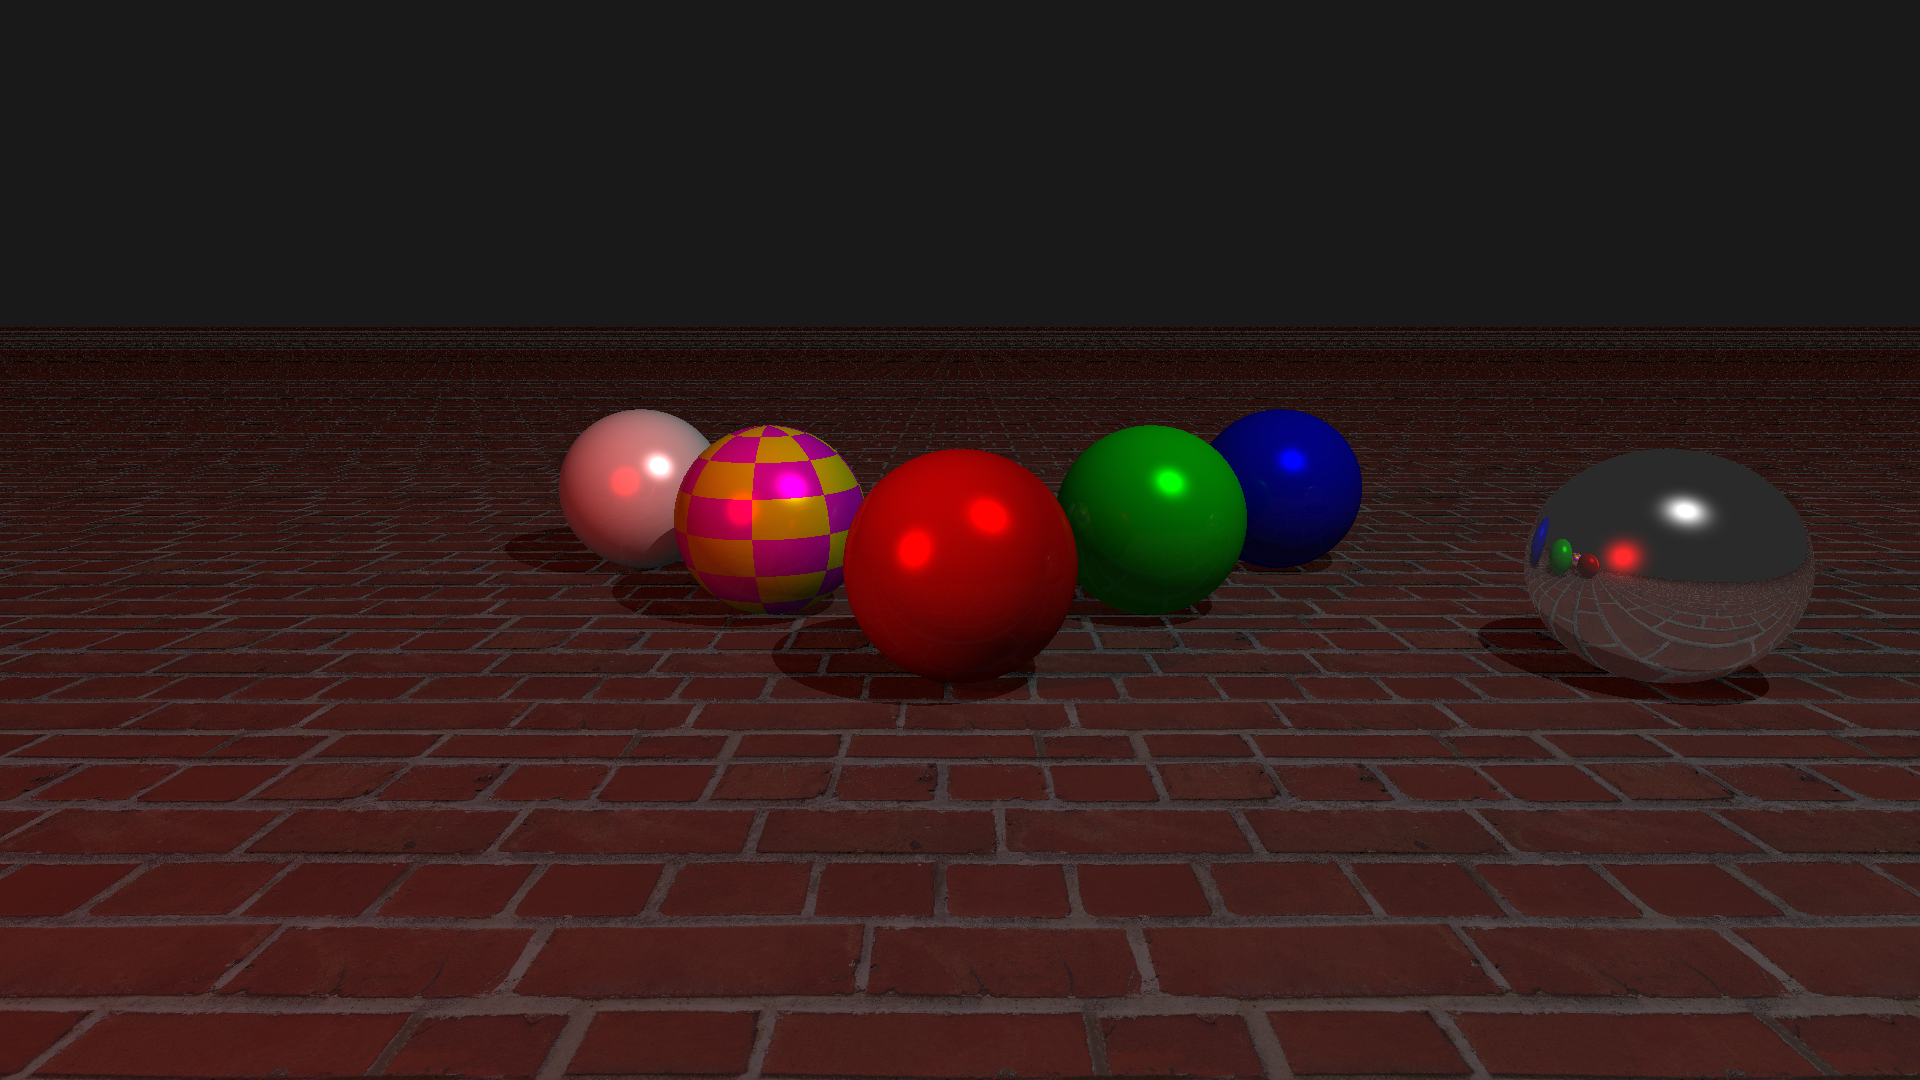
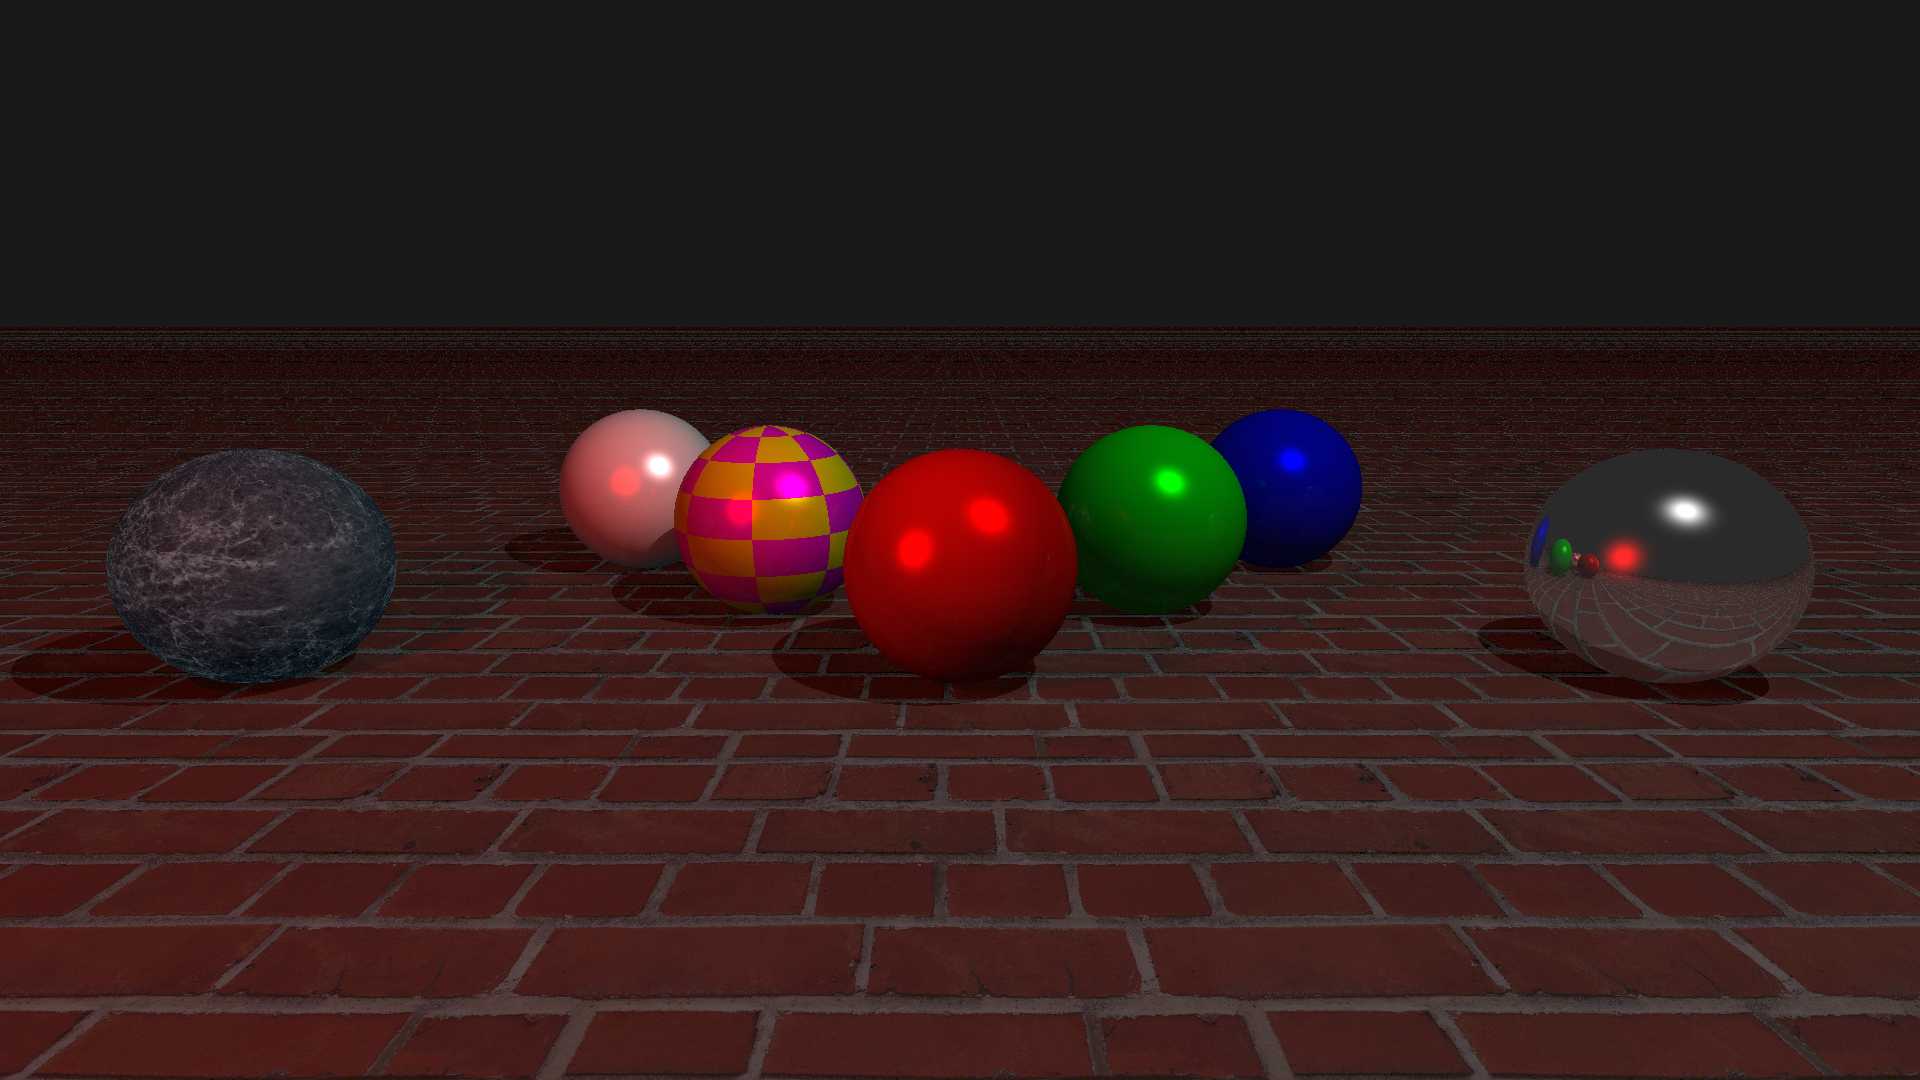
Update example scene.

Changed region(s): [[0.0312, 0.3972, 0.2188, 0.6417]]

diff --git a/RayTracer/ExampleScene.cpp b/RayTracer/ExampleScene.cpp
@@ -127,6 +127,19 @@ Scene ExampleScene::Build()
 			/* Radius: */					1
 		)
 	);
+	scene.objects.push_back(
+		std::make_unique<SphereObject>(
+			/* Position: */					Vector(-6, 0, 0),
+			/* Material: */					Material{
+				.texture = MakeImageTexture("Assets/Marble.jpg"),
+				.ambient = 0.3,
+				.diffuse = 0.1,
+				.specular = 0.0,
+				.reflectivity = 0.0
+			},
+			/* Radius: */					1
+		)
+	);
 
 	return scene;
 }
